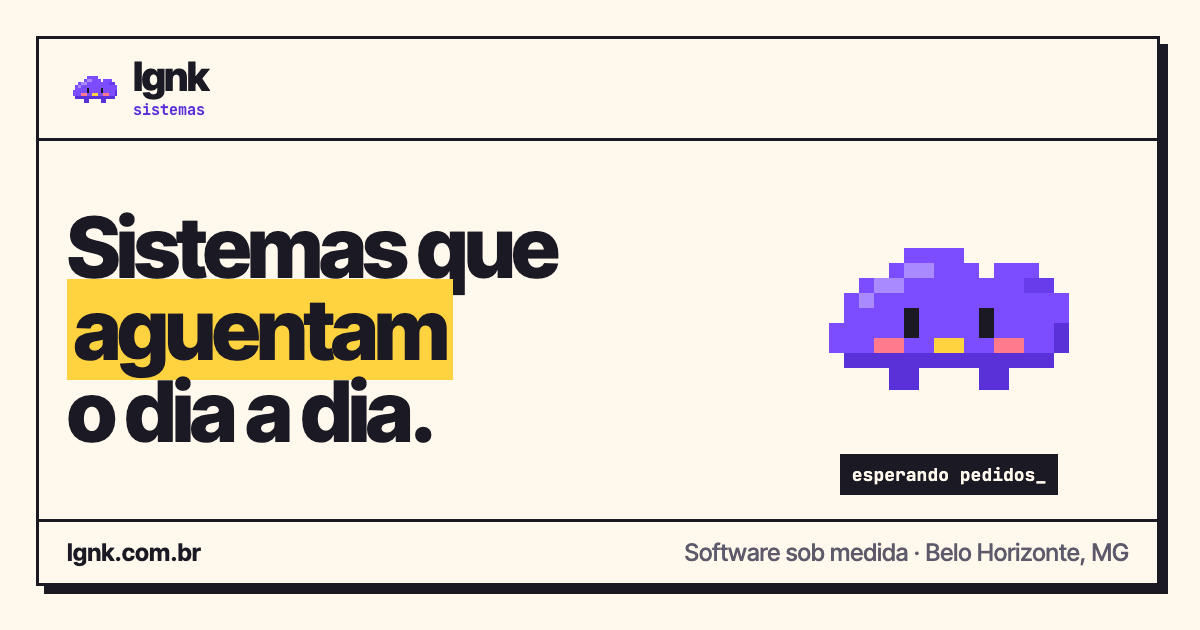
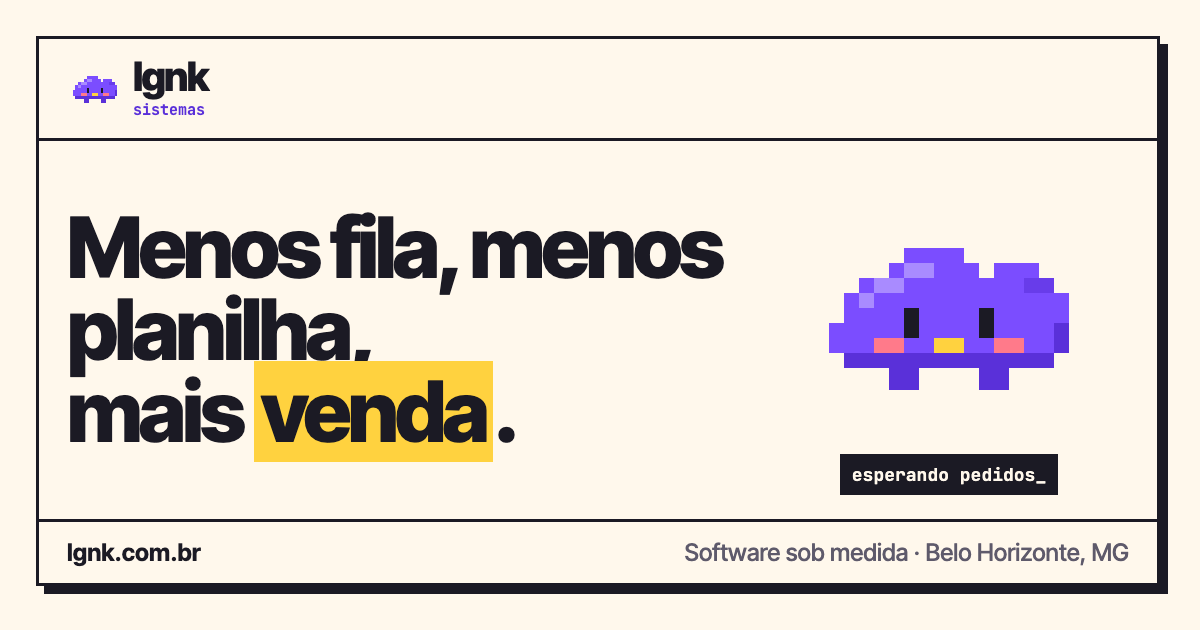
feat: textos novos na língua de quem tem uma empresa
- Topo: "Menos fila, menos planilha, mais venda." e "Você fala direto com quem constrói."
- Serviços como problemas resolvidos, com saída "Não sabe se precisa de site, app ou sistema?".
- Novo item no FAQ para quem não sabe o que precisa; rodapé "Conta o que está travando."
- Sai a faixa de números (8+, 5,0★, 5+ anos); nova descrição e og.png.
- Página só fica inerte quando a nuvem de carregamento aparece de fato (antes bloqueava
  o teclado por alguns milissegundos mesmo com internet boa).

Changed region(s): [[0.0308, 0.3317, 0.6167, 0.754]]

diff --git a/tests/build/content.test.ts b/tests/build/content.test.ts
@@ -18,12 +18,12 @@ describe('conteúdo da home', () => {
   it('tem um único h1 com a frase do topo', () => {
     const h1s = doc.querySelectorAll('h1');
     expect(h1s.length).toBe(1);
-    expect(text(h1s[0])).toBe('Sistemas que aguentam o dia a dia.');
+    expect(text(h1s[0])).toBe('Menos fila, menos planilha, mais venda.');
   });
 
   it('tem as seções na ordem aprovada', () => {
     const ids = [...doc.querySelectorAll('section[id], footer[id]')].map((el) => el.id);
-    expect(ids).toEqual(['topo', 'provas', 'servicos', 'trabalhos', 'como-trabalhamos', 'orcamento', 'quem-esta-por-tras', 'perguntas', 'contato']);
+    expect(ids).toEqual(['topo', 'servicos', 'trabalhos', 'como-trabalhamos', 'orcamento', 'quem-esta-por-tras', 'perguntas', 'contato']);
   });
 
   it('nenhum preço no site (decisão do Ian)', () => {
@@ -50,5 +50,27 @@ describe('conteúdo da home', () => {
 
   it('apresenta quem está por trás', () => {
     expect(text(doc.querySelector('#quem-esta-por-tras'))).toContain('Ian Langkammer');
+  });
+
+  it('serviços falam do problema resolvido, com saída para quem não sabe o que precisa', () => {
+    const servicos = doc.querySelector('#servicos')!;
+    expect(text(servicos.querySelector('h2'))).toBe('O que a gente resolve.');
+    expect([...servicos.querySelectorAll('li h3')].map(text)).toEqual(['Sistema sob medida', 'App e maquininha', 'Site e loja virtual', 'Manutenção']);
+    expect(text(servicos)).toContain('Não sabe se precisa de site, app ou sistema?');
+    expect(text(servicos.querySelector('a[href="#orcamento"]'))).toBe('Montar meu orçamento →');
+  });
+
+  it('FAQ acolhe quem não sabe o que precisa', () => {
+    expect(body).toContain('Não sei se preciso de site, app ou sistema.');
+  });
+
+  it('rodapé chama para contar o problema, sem supor que a pessoa precisa de um sistema', () => {
+    const footer = doc.querySelector('footer#contato')!;
+    expect(text(footer.querySelector('h2'))).toBe('Conta o que está travando.');
+    expect(text(footer)).toContain('A gente responde em até 1 dia útil.');
+  });
+
+  it('sem a faixa de números', () => {
+    expect(doc.querySelector('#provas')).toBeNull();
   });
 });

diff --git a/tests/build/layout.test.ts b/tests/build/layout.test.ts
@@ -11,7 +11,7 @@ describe('layout da home', () => {
   it('tem título e descrição', () => {
     expect(text(doc.querySelector('title'))).toBe('LGNK Sistemas · Software sob medida para pequenas e médias empresas');
     expect(doc.querySelector('meta[name="description"]')?.getAttribute('content')).toBe(
-      'Arquitetamos, construímos e mantemos sistemas para pequenas e médias empresas: sistemas sob medida, apps, integrações com maquininha e Pix, sites e manutenção. Belo Horizonte, MG.',
+      'Sistemas, apps e sites sob medida para pequenas e médias empresas pararem de perder venda: pedidos, estoque, maquininha e Pix num lugar só. Belo Horizonte, MG.',
     );
   });
 
@@ -19,7 +19,7 @@ describe('layout da home', () => {
     expect(doc.querySelector('link[rel="canonical"]')?.getAttribute('href')).toBe('https://lgnk.com.br/');
     expect(doc.querySelector('meta[property="og:image"]')?.getAttribute('content')).toBe('https://lgnk.com.br/og.png');
     expect(doc.querySelector('meta[property="og:image:alt"]')?.getAttribute('content')).toBe(
-      'LGNK Sistemas — Sistemas que aguentam o dia a dia.',
+      'LGNK Sistemas — Menos fila, menos planilha, mais venda.',
     );
   });
 

diff --git a/tests/build/brand.test.ts b/tests/build/brand.test.ts
@@ -29,12 +29,12 @@ describe('marca nova no site', () => {
   });
 
   it('destaque do título é marca-texto', () => {
-    expect(text(home.querySelector('h1 mark'))).toBe('aguentam');
+    expect(text(home.querySelector('h1 mark'))).toBe('venda');
   });
 
   it('topo tem subtítulo novo, os dois botões e o mascote', () => {
     const topo = home.querySelector('#topo')!;
-    expect(text(topo)).toContain('a gente automatiza a operação para você parar de perder venda.');
+    expect(text(topo)).toContain('Você fala direto com quem constrói.');
     expect(topo.querySelector('a[data-whatsapp]')).not.toBeNull();
     expect(topo.querySelector('svg[role="img"]')).not.toBeNull();
   });

diff --git a/scripts/og.html b/scripts/og.html
@@ -32,7 +32,7 @@
       <div><div class="name">lgnk</div><div class="sub">sistemas</div></div>
     </div>
     <div class="mid">
-      <h1>Sistemas que <mark>aguentam</mark> <span style="white-space: nowrap">o dia a dia.</span></h1>
+      <h1>Menos fila, menos planilha, <span style="white-space: nowrap">mais <mark>venda</mark>.</span></h1>
       <div class="cloud"><img src="../dist/marca/simbolo.svg" alt="" /><span>esperando pedidos_</span></div>
     </div>
     <div class="bottom"><span>lgnk.com.br</span><span class="muted">Software sob medida · Belo Horizonte, MG</span></div>
